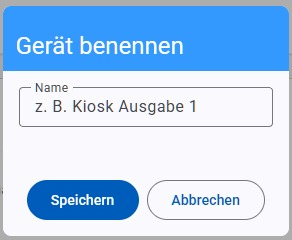
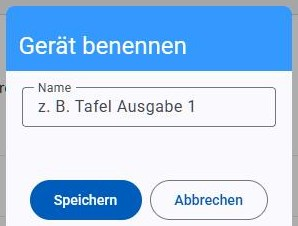
fix(push): rename Kiosk example label to Tafel and match button styling
Kiosk and Tafel are different things, so the device-naming example and
test fixtures now say "Tafel Ausgabe 1" instead. Also aligns the
rename/remove device buttons with the app-wide filled red button-danger
style used for every other edit/delete icon button.

Changed region(s): [[0.0, 0.0, 1.0, 1.0]]

diff --git a/frontend/src/main/webapp/src/app/modules/user/components/push-notification-settings/push-notification-settings.component.spec.ts b/frontend/src/main/webapp/src/app/modules/user/components/push-notification-settings/push-notification-settings.component.spec.ts
@@ -150,8 +150,8 @@ describe('PushNotificationSettingsComponent', () => {
 
   describe('renameDevice', () => {
     it('renames the device and reloads the list when the dialog is confirmed', async () => {
-      matDialog.open.mockReturnValue({afterClosed: () => of('Kiosk 1')} as any);
-      pushNotificationService.getDevices.mockResolvedValue([{...testDevice, label: 'Kiosk 1'}]);
+      matDialog.open.mockReturnValue({afterClosed: () => of('Tafel 1')} as any);
+      pushNotificationService.getDevices.mockResolvedValue([{...testDevice, label: 'Tafel 1'}]);
 
       const fixture = TestBed.createComponent(PushNotificationSettingsComponent);
       fixture.detectChanges();
@@ -160,7 +160,7 @@ describe('PushNotificationSettingsComponent', () => {
       fixture.componentInstance.renameDevice(testDevice);
       await fixture.whenStable();
 
-      expect(pushNotificationService.renameDevice).toHaveBeenCalledWith(testDevice.id, 'Kiosk 1');
+      expect(pushNotificationService.renameDevice).toHaveBeenCalledWith(testDevice.id, 'Tafel 1');
       expect(toastr.success).toHaveBeenCalled();
     });
 
@@ -178,7 +178,7 @@ describe('PushNotificationSettingsComponent', () => {
     });
 
     it('shows an error when renaming fails', async () => {
-      matDialog.open.mockReturnValue({afterClosed: () => of('Kiosk 1')} as any);
+      matDialog.open.mockReturnValue({afterClosed: () => of('Tafel 1')} as any);
       pushNotificationService.renameDevice.mockRejectedValue(new Error('fail'));
 
       const fixture = TestBed.createComponent(PushNotificationSettingsComponent);
@@ -237,8 +237,8 @@ describe('PushNotificationSettingsComponent', () => {
   describe('deviceLabel', () => {
     it('prefers the custom label over the user-agent-derived one', () => {
       const fixture = TestBed.createComponent(PushNotificationSettingsComponent);
-      const label = (fixture.componentInstance as any).deviceLabel({...testDevice, label: 'Kiosk 1'});
-      expect(label).toEqual('Kiosk 1');
+      const label = (fixture.componentInstance as any).deviceLabel({...testDevice, label: 'Tafel 1'});
+      expect(label).toEqual('Tafel 1');
     });
 
     it('falls back to the user-agent-derived label when no custom label is set', () => {

diff --git a/frontend/src/main/webapp/src/app/modules/user/components/push-notification-settings/dialogs/rename-device-dialog.component.spec.ts b/frontend/src/main/webapp/src/app/modules/user/components/push-notification-settings/dialogs/rename-device-dialog.component.spec.ts
@@ -28,12 +28,12 @@ describe('RenameDeviceDialogComponent', () => {
   });
 
   it('pre-fills with the current label', () => {
-    configure('Kiosk 1');
+    configure('Tafel 1');
 
     const fixture = TestBed.createComponent(RenameDeviceDialogComponent);
     fixture.detectChanges();
 
-    expect(fixture.componentInstance.labelInput()).toEqual('Kiosk 1');
+    expect(fixture.componentInstance.labelInput()).toEqual('Tafel 1');
   });
 
   it('pre-fills empty when there is no current label', () => {
@@ -49,11 +49,11 @@ describe('RenameDeviceDialogComponent', () => {
     configure(null);
 
     const fixture = TestBed.createComponent(RenameDeviceDialogComponent);
-    fixture.componentInstance.labelInput.set('  Kiosk 1  ');
+    fixture.componentInstance.labelInput.set('  Tafel 1  ');
 
     fixture.componentInstance.save();
 
-    expect(dialogRef.close).toHaveBeenCalledWith('Kiosk 1');
+    expect(dialogRef.close).toHaveBeenCalledWith('Tafel 1');
   });
 
   it('save closes the dialog with null when the label is blank', () => {

diff --git a/backend/src/test/kotlin/at/wrk/tafel/admin/backend/modules/push/internal/PushSubscriptionServiceTest.kt b/backend/src/test/kotlin/at/wrk/tafel/admin/backend/modules/push/internal/PushSubscriptionServiceTest.kt
@@ -220,10 +220,10 @@ internal class PushSubscriptionServiceTest {
         every { pushSubscriptionRepository.findByIdAndUserId(5L, testUserEntity.id!!) } returns entity
         every { pushSubscriptionRepository.saveAndFlush(any()) } answers { firstArg() }
 
-        val result = service.updateLabel(5L, PushSubscriptionLabelRequest(label = "  Kiosk 1  "))
+        val result = service.updateLabel(5L, PushSubscriptionLabelRequest(label = "  Tafel 1  "))
 
-        assertThat(result.label).isEqualTo("Kiosk 1")
-        assertThat(entity.label).isEqualTo("Kiosk 1")
+        assertThat(result.label).isEqualTo("Tafel 1")
+        assertThat(entity.label).isEqualTo("Tafel 1")
     }
 
     @Test

diff --git a/frontend/src/main/webapp/src/app/modules/user/components/push-notification-settings/push-notification-settings.component.html b/frontend/src/main/webapp/src/app/modules/user/components/push-notification-settings/push-notification-settings.component.html
@@ -47,7 +47,8 @@
               <button
                 type="button"
                 testid="push-device-rename"
-                matButton="outlined"
+                matButton="filled"
+                class="button-danger"
                 (click)="renameDevice(device)"
                 [attr.aria-label]="'Gerät benennen'"
               >
@@ -56,7 +57,8 @@
               <button
                 type="button"
                 testid="push-device-remove"
-                matButton="outlined"
+                matButton="filled"
+                class="button-danger"
                 (click)="removeDevice(device)"
                 [attr.aria-label]="'Gerät entfernen'"
               >

diff --git a/backend/src/test/kotlin/at/wrk/tafel/admin/backend/database/model/push/PushSubscriptionRepositoryIT.kt b/backend/src/test/kotlin/at/wrk/tafel/admin/backend/database/model/push/PushSubscriptionRepositoryIT.kt
@@ -74,13 +74,13 @@ class PushSubscriptionRepositoryIT : TafelBaseIntegrationTest() {
     @Test
     fun `label survives a persist and reload round-trip`() {
         val user = persistUser()
-        val subscription = persistSubscription(user, label = "Kiosk 1")
+        val subscription = persistSubscription(user, label = "Tafel 1")
         testEntityManager.flush()
         testEntityManager.clear()
 
         val result = pushSubscriptionRepository.findById(subscription.id!!)
 
-        assertThat(result.get().label).isEqualTo("Kiosk 1")
+        assertThat(result.get().label).isEqualTo("Tafel 1")
     }
 
     @Test

diff --git a/backend/src/test/kotlin/at/wrk/tafel/admin/backend/modules/push/PushControllerTest.kt b/backend/src/test/kotlin/at/wrk/tafel/admin/backend/modules/push/PushControllerTest.kt
@@ -75,12 +75,12 @@ internal class PushControllerTest {
 
     @Test
     fun `updateLabel delegates to the service`() {
-        val request = PushSubscriptionLabelRequest(label = "Kiosk 1")
+        val request = PushSubscriptionLabelRequest(label = "Tafel 1")
         val updated = PushSubscriptionItem(
             id = 1,
             endpoint = "https://push.example.com/x",
             userAgent = null,
-            label = "Kiosk 1",
+            label = "Tafel 1",
             createdAt = LocalDateTime.now(),
         )
         every { pushSubscriptionService.updateLabel(1L, request) } returns updated

diff --git a/frontend/src/main/webapp/src/app/common/pwa/push-notification.service.spec.ts b/frontend/src/main/webapp/src/app/common/pwa/push-notification.service.spec.ts
@@ -168,9 +168,9 @@ describe('PushNotificationService', () => {
 
   describe('renameDevice', () => {
     it('sends the new label to the backend', async () => {
-      await service.renameDevice(7, 'Kiosk 1');
+      await service.renameDevice(7, 'Tafel 1');
 
-      expect(mockPushApiService.updateLabel).toHaveBeenCalledWith(7, {label: 'Kiosk 1'});
+      expect(mockPushApiService.updateLabel).toHaveBeenCalledWith(7, {label: 'Tafel 1'});
     });
 
     it('sends null to clear the label', async () => {

diff --git a/frontend/src/main/webapp/src/app/modules/user/components/push-notification-settings/dialogs/rename-device-dialog.component.html b/frontend/src/main/webapp/src/app/modules/user/components/push-notification-settings/dialogs/rename-device-dialog.component.html
@@ -3,7 +3,7 @@
     <mat-form-field class="w-full">
       <mat-label>Name</mat-label>
       <input testid="rename-device-label-input" matInput type="text" maxlength="100"
-             placeholder="z. B. Kiosk Ausgabe 1"
+             placeholder="z. B. Tafel Ausgabe 1"
              [ngModel]="labelInput()" (ngModelChange)="labelInput.set($event)">
     </mat-form-field>
   </div>

diff --git a/docs/userguide/README.md b/docs/userguide/README.md
@@ -33,7 +33,7 @@ Auf Test- und Entwicklungsumgebungen wird unterhalb von "Tafel Admin" zusätzlic
 
 Über **Benachrichtigungen** kann man Push-Benachrichtigungen für den aktuell verwendeten Browser aktivieren, z. B. um automatisch informiert zu werden, sobald eine Ausgabe gestartet oder beendet wurde. Da die Anmeldung pro Gerät/Browser erfolgt, muss dieser Schalter auf jedem Gerät einzeln aktiviert werden, auf dem Benachrichtigungen gewünscht sind. Unterstützt der aktuelle Browser keine Push-Benachrichtigungen, wird stattdessen ein entsprechender Hinweis angezeigt.
 
-Darunter listet **Deine Geräte** alle für den eigenen Account aktivierten Geräte, jeweils mit Browser-/Betriebssystem-Erkennung und dem Zeitpunkt der Registrierung. Über das Stift-Symbol kann jedem Gerät ein eigener, frei wählbarer Name gegeben werden (z. B. "Kiosk Ausgabe 1"), um es in der Liste leichter wiederzuerkennen – dieser Name überschreibt dann die automatische Browser-/Betriebssystem-Anzeige.
+Darunter listet **Deine Geräte** alle für den eigenen Account aktivierten Geräte, jeweils mit Browser-/Betriebssystem-Erkennung und dem Zeitpunkt der Registrierung. Über das Stift-Symbol kann jedem Gerät ein eigener, frei wählbarer Name gegeben werden (z. B. "Tafel Ausgabe 1"), um es in der Liste leichter wiederzuerkennen – dieser Name überschreibt dann die automatische Browser-/Betriebssystem-Anzeige.
 
 ![Benachrichtigungen](images/benachrichtigungen.jpg)
 
